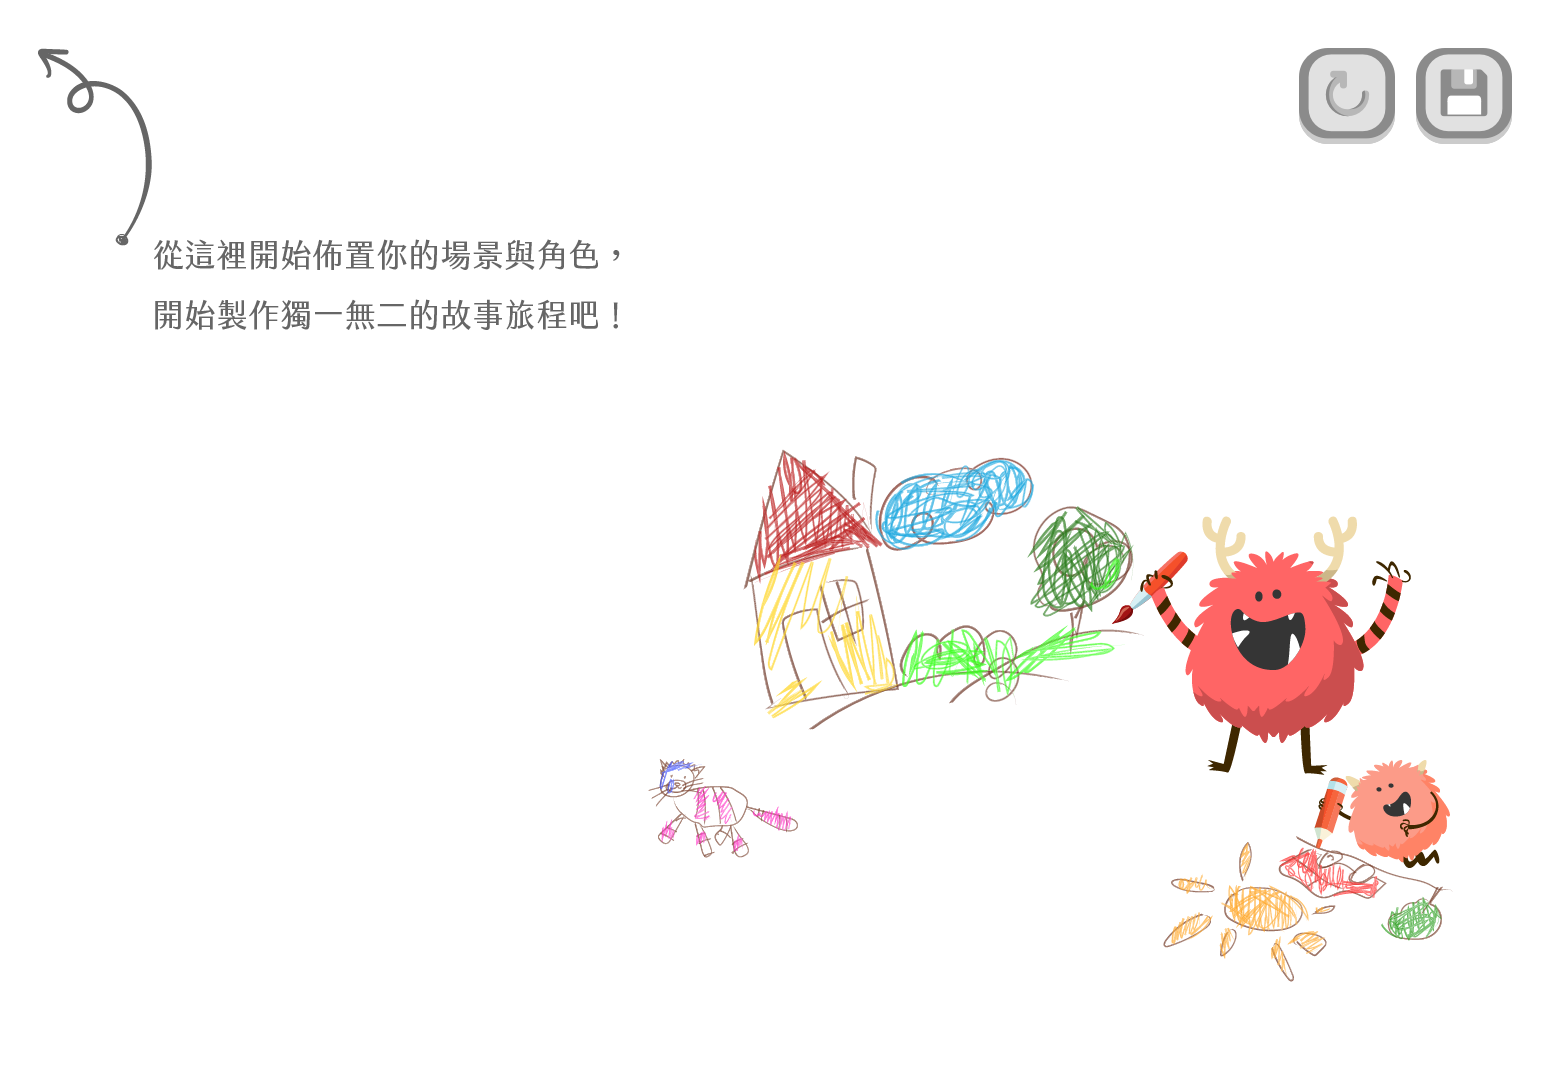
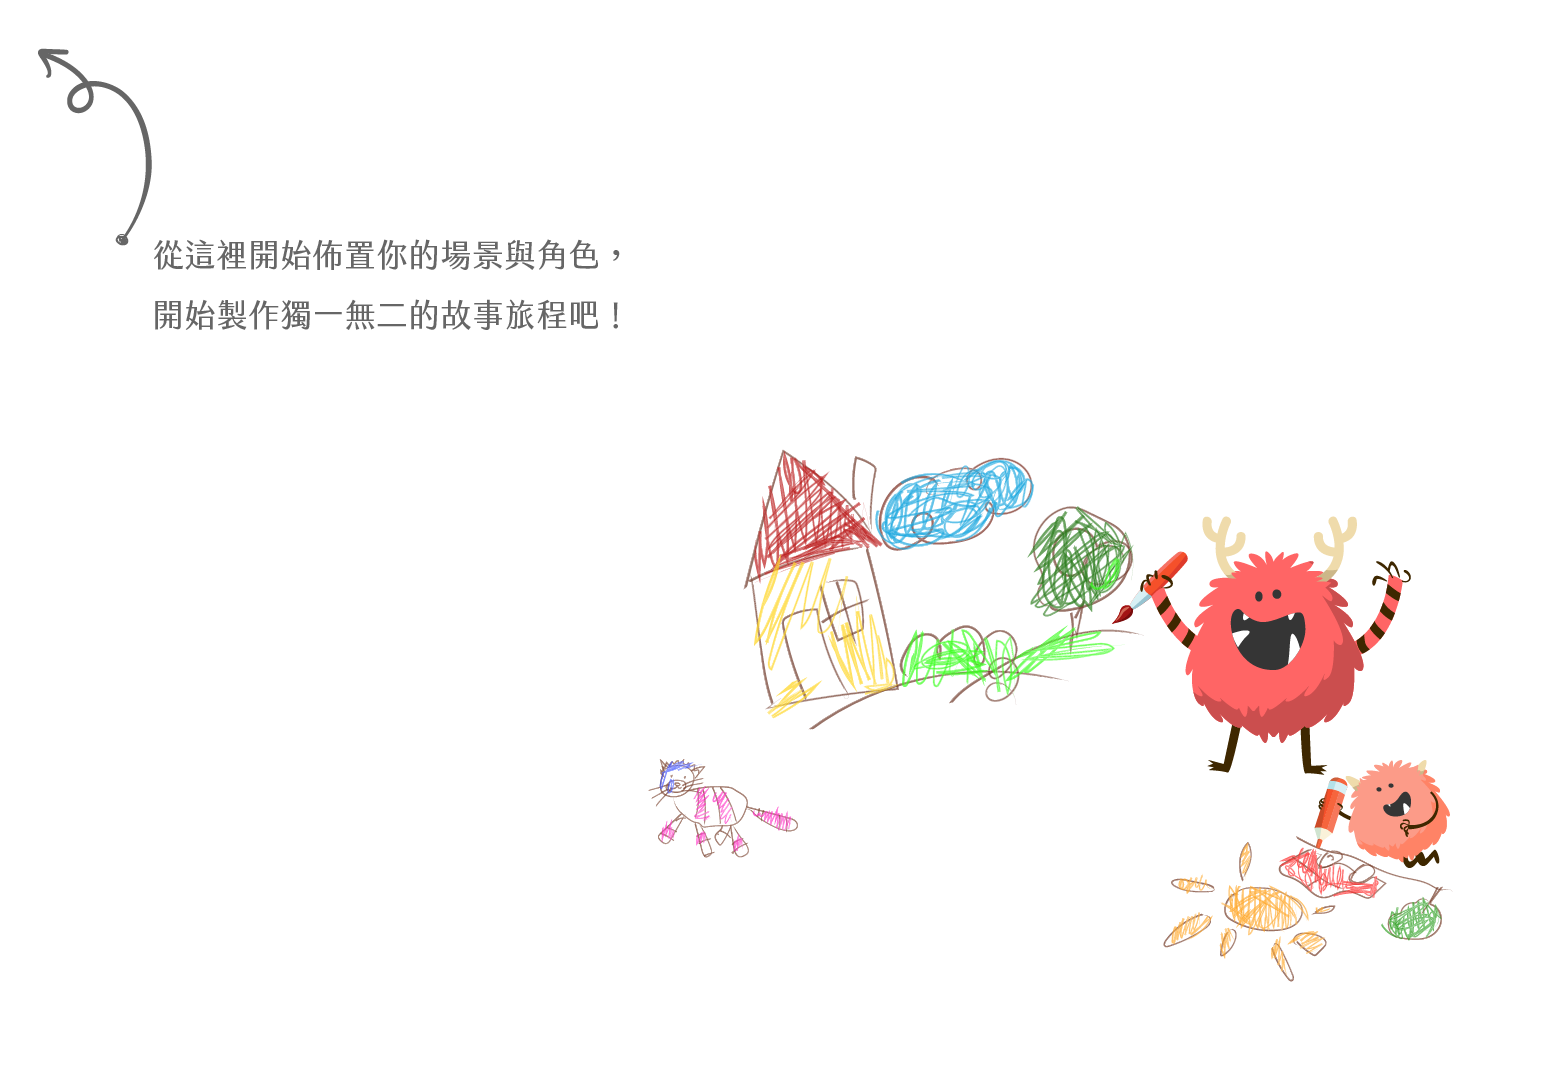
[editStory] update image

Changed region(s): [[0.8308, 0.0306, 0.9846, 0.1528]]

diff --git a/src/components/scene/sceneTool.js b/src/components/scene/sceneTool.js
@@ -11,7 +11,8 @@ import {
 } from "react-native";
 import { inject, observer } from "mobx-react";
 
-import Save from "../../assets/images/EditStory/btn_save.png";
+import Movie_Selected from "../../assets/images/EditStory/btn_movie_Selected.png";
+import Movie_Unselected from "../../assets/images/EditStory/btn_movie_Unselected.png";
 import BG_Scene from "../../assets/images/EditStory/BG_ScenesBar.png";
 import Btn_NumberBackground from "../../assets/images/EditStory/Btn_SceneNumberBackground.png";
 import Btn_NumberBackground_Selected from "../../assets/images/EditStory/Btn_SceneNumberBackground_selected.png";
@@ -71,7 +72,7 @@ export default class SceneTool extends Component {
             this.storyStore.openScenePane = !this.storyStore.openScenePane;
           }}
         >
-          <Image style={styles.sceneIcon} source={Save} />
+          <Image style={styles.sceneIcon} source={this.storyStore.openScenePane? Movie_Selected: Movie_Unselected} />
         </TouchableOpacity>
 
         <View
@@ -156,7 +157,7 @@ const styles = StyleSheet.create({
 
   sceneIcon: {
     width: ICON_SIZE * 1.1,
-    height: ICON_SIZE * 1.1
+    height: ICON_SIZE * 1.15
   },
 
   toolIcon: {

diff --git a/src/components/story/storyBoard.js b/src/components/story/storyBoard.js
@@ -1,7 +1,9 @@
 import React, { Component } from "react";
-import { View, StyleSheet, Text, Dimensions } from "react-native";
+import { View, StyleSheet, Text, Dimensions, Image } from "react-native";
 import { inject, observer } from "mobx-react";
 import StoryItem from "./storyItem";
+
+import Teaching_BG from "../../assets/images/EditStory/Teaching.png";
 
 const screenWidth = Dimensions.get("window").width;
 const screenHeight = Dimensions.get("window").height;
@@ -29,6 +31,8 @@ export default class StoryBoard extends Component {
           { right: BOARD_RIGHT, top: BOARD_TOP }
         ]}
       >
+        <Image source={Teaching_BG} style={[styles.background]} />
+
         {this.storyStore.storyScene[this.storyStore.selectSceneIndex].story.map(
           (ele, id) => {
             return <StoryItem key={ele.key} select={ele} idofarray={id} />;
@@ -50,5 +54,11 @@ const styles = StyleSheet.create({
     overflow: "hidden",
     borderWidth: 1,
     borderRadius: 10,
+  },
+
+  background: {
+    width: BOARD_WIDTH,
+    height: BOARD_HEIGHT,
+    overflow: 'hidden',
   }
 });

diff --git a/src/components/story/storyTool.js b/src/components/story/storyTool.js
@@ -3,14 +3,13 @@ import { View, Image, TouchableOpacity, Dimensions, StyleSheet } from "react-nat
 import { inject, observer } from "mobx-react";
 
 import Redo from "../../assets/images/EditStory/btn_redo.png";
-import Save from "../../assets/images/EditStory/btn_save.png";
 
 
 const screenWidth = Dimensions.get("window").width;
 const screenHeight = Dimensions.get("window").height;
 const BOARD_WIDTH = screenWidth * 0.76
 const BOARD_HEIGHT = screenHeight * 0.7
-const ICON_SIZE = 40;
+const ICON_SIZE = 50;
 const BOARD_RIGHT = screenWidth / 2 - BOARD_WIDTH / 2;
 const BOARD_TOP = screenHeight / 2 - BOARD_HEIGHT / 2 - screenHeight * 0.06;
 
@@ -41,12 +40,6 @@ export default class StoryTool extends Component {
           <Image style={styles.toolIcon} source={Redo} />
         </TouchableOpacity>
 
-        {/* save, no use */}
-        {/*
-          <TouchableOpacity>
-          <Image style={styles.toolIcon} source={Save}/>
-        </TouchableOpacity>
-        */}
       </View>
     );
   }

diff --git a/src/stores/tool.js b/src/stores/tool.js
@@ -91,17 +91,15 @@ export default class ToolStore {
 
   @action
   toggleOpen(type) {
-    if (this.open === type) {
+    if (this.open === type) 
       this.open = "";
-      return;
-    }
+    else
+      this.open = type;
+
 
     console.log("hello " + type + this.open);
-    this.open = type;
-    this.sceneBtn = this.open === type ? BtnSceneSelected : BtnSceneUnselected;
-    this.characterBtn =
-      this.open === type ? BtnCharacterSelected : BtnCharacterUnselected;
-    this.stickerBtn =
-      this.open === type ? BtnStickerSelected : BtnStickerUnselected;
+    this.sceneBtn =     this.open === 'scene'     ? BtnSceneSelected : BtnSceneUnselected;
+    this.characterBtn = this.open === 'character' ? BtnCharacterSelected : BtnCharacterUnselected;
+    this.stickerBtn =   this.open === 'sticker'   ? BtnStickerSelected : BtnStickerUnselected;
   }
 }

diff --git a/src/pages/editStory.js b/src/pages/editStory.js
@@ -5,7 +5,6 @@ import { inject, observer } from "mobx-react";
 import EditStory_BG from "../assets/images/EditStory/BG.png";
 import RecordStory_BG from "../assets/images/RecordStory/BG.png";
 import Redo from "../assets/images/EditStory/btn_redo.png";
-import Save from "../assets/images/EditStory/btn_save.png";
 import Teaching from "../assets/images/EditStory/Teaching.png";
 
 import ToolBar from "../components/toolBar";
